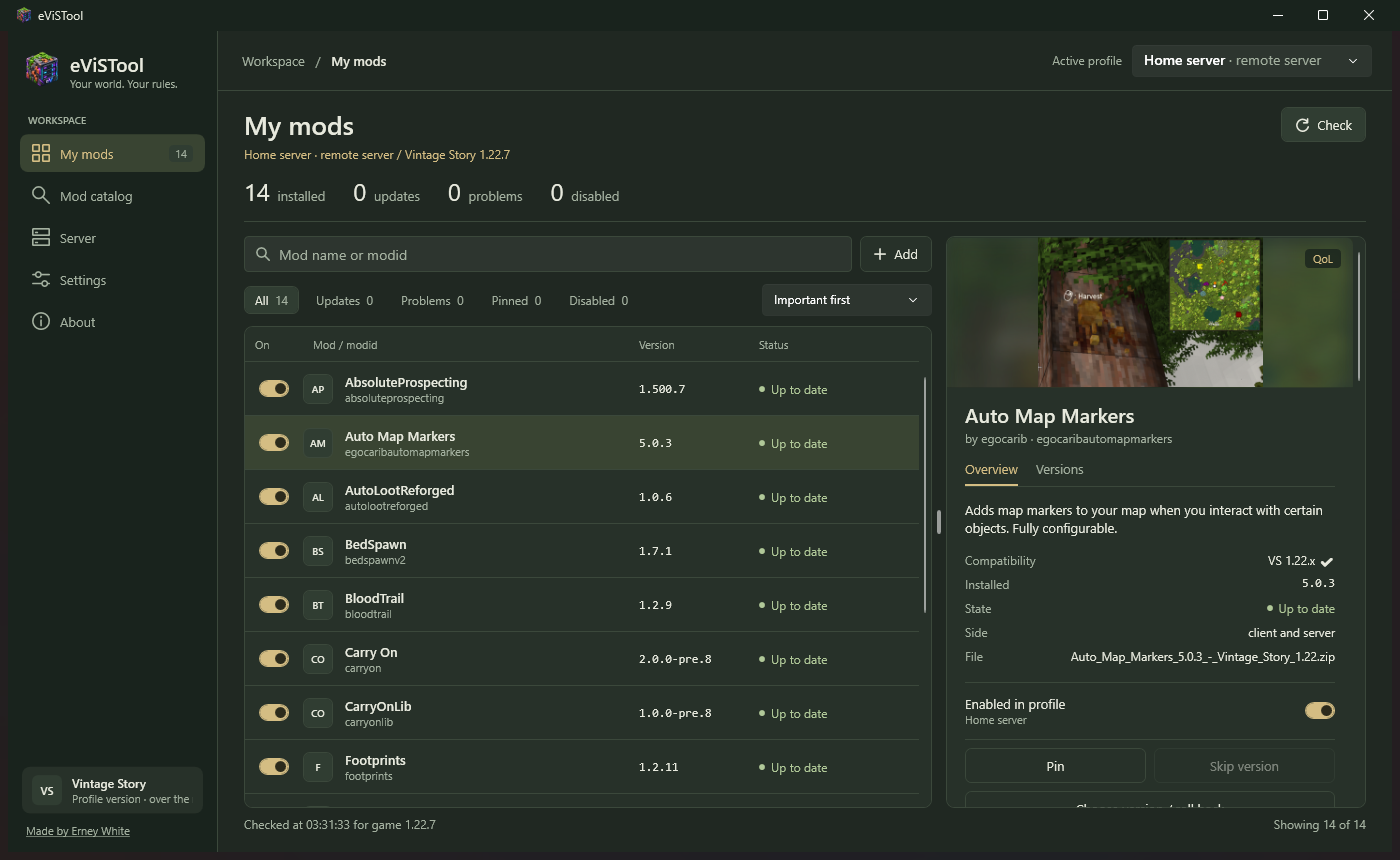
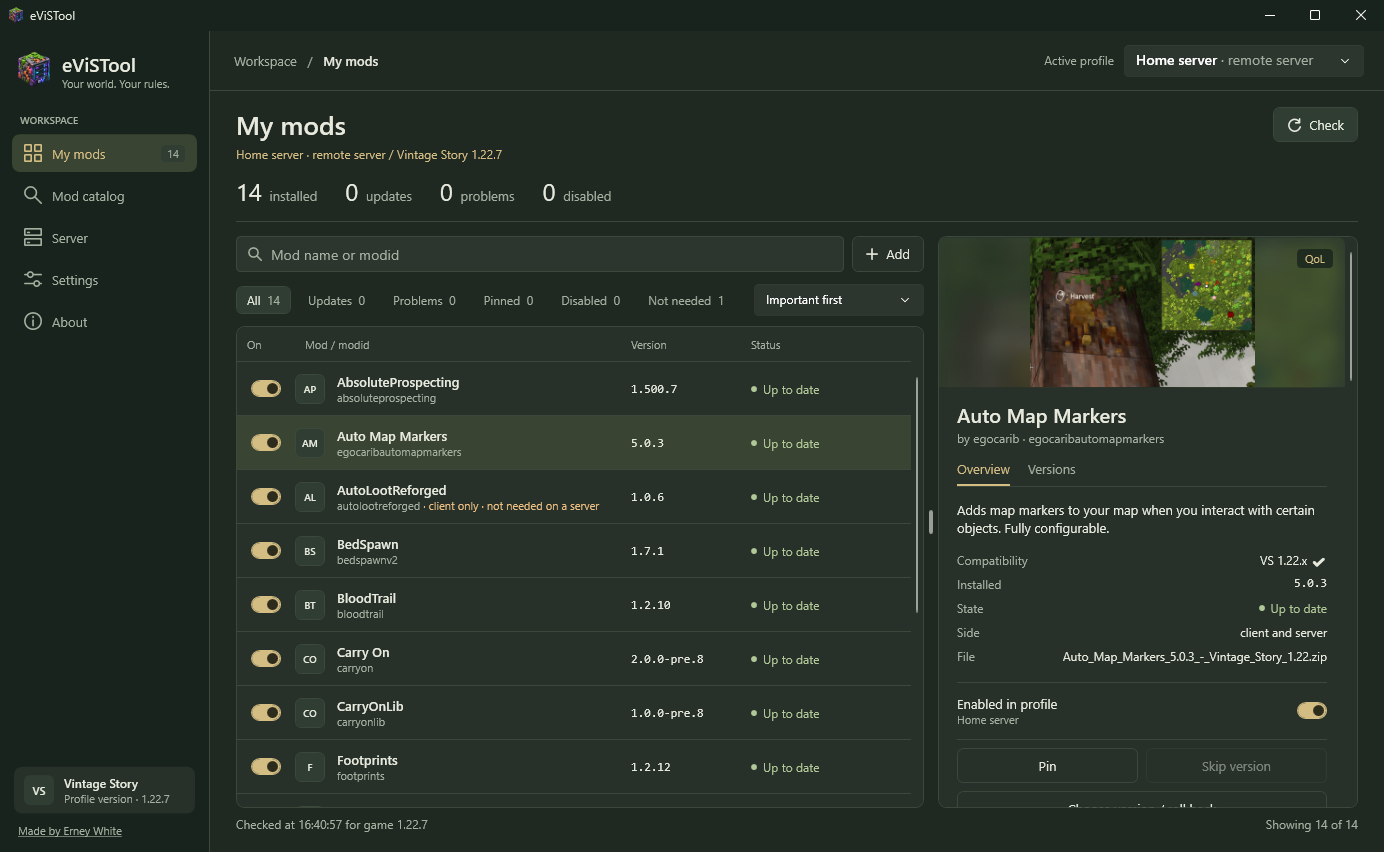
Скриншоты: пометки стороны мода, подсказки команд в консоли, фильтр «Not needed»; материалы для страницы на ModDB

diff --git a/docs/moddb/description.html b/docs/moddb/description.html
@@ -1,0 +1,57 @@
+<p><img src="https://raw.githubusercontent.com/erneywhite/eViSTool/main/docs/screenshots/mods.png" alt="My mods" width="100%" /></p>
+
+<p>I play Vintage Story with a lot of mods and run a small server for friends, and I got tired of checking every mod for updates by hand, copying zips around and connecting to the server just to restart it. So I made <strong>eViSTool</strong>. It's one window where you can keep your mods up to date, grab new ones from the ModDB and look after your dedicated server.</p>
+<p>It's free, open source and portable: unzip it anywhere and run it. Nothing gets installed, nothing runs in the background when you don't need it.</p>
+
+<h2>Your mods</h2>
+<p>Hit <strong>Check</strong> and you'll see which mods have updates. Update one or all of them in one go. If an update breaks something, roll back to the version you had before &mdash; eViSTool keeps the old files around for exactly that. You can pin a mod to its current version or skip one particular release you don't want.</p>
+<p>It also warns you about the usual headaches before they bite: a missing or outdated dependency (one button fixes it), a duplicate mod, a version made for another game branch. And if you keep a separate mod set for a server, it tells you which mods are client-only and don't belong there.</p>
+<p>Want to share your setup with a friend? Save it as a modpack and send them one file.</p>
+
+<h2>The whole ModDB inside the app</h2>
+<p>Search, filter by tag, side and game version, sort by what's trending. Every mod shows its screenshots, description and all releases, and installs with one click &mdash; dependencies included.</p>
+
+<h2>Profiles</h2>
+<p>Keep several setups side by side: your main game, a separate mod set for a particular server, a test profile. Each has its own mods, settings and worlds, and the <strong>Play</strong> button starts the game with the one you picked.</p>
+
+<p><img src="https://raw.githubusercontent.com/erneywhite/eViSTool/main/docs/screenshots/server.png" alt="Server console" width="100%" /></p>
+
+<h2>Your dedicated server</h2>
+<p>Start, stop and restart it, watch the live console and type commands with hints &mdash; start typing <code>/</code> and eViSTool suggests the server's commands, including the ones added by mods, and Tab completes them.</p>
+<p>The server keeps running when you close the window, and if it crashes it comes back up on its own.</p>
+<p>Backups run on a schedule, old ones get cleaned up, and restoring one is a single click &mdash; together with the data some mods keep next to the world, like XLeveling's skill progress. Scheduled restarts warn players in chat beforehand and take a fresh backup right before restarting, just in case.</p>
+<p>There's also a proper editor for <code>serverconfig.json</code>: world settings, roles and privileges with checkboxes instead of hand-editing JSON.</p>
+
+<h2>Your server on another PC</h2>
+<p>If the server lives on a different computer (a spare PC, a VM, a rented box), turn on remote access there and you'll get a connection code. Paste it into eViSTool on your own PC, and you can manage that server just like a local one: console, config, backups, schedule, and its mods. The connection is encrypted, and there's nothing to set up beyond the code.</p>
+
+<h2>Getting started</h2>
+<ol>
+<li>Download the zip below (or from <a href="https://github.com/erneywhite/eViSTool/releases">GitHub</a>), unzip it anywhere and run <code>eViSTool.exe</code>.</li>
+<li>It finds the game and your mods by itself.</li>
+</ol>
+<p>You'll need Windows 10 or 11 and the .NET 10 Desktop Runtime. The game uses the same runtime, so if you play Vintage Story you already have it.</p>
+<p>The app isn't code-signed yet, so Windows may show <em>"Windows protected your PC"</em> the first time. Click <em>More info &rarr; Run anyway</em>. The source code is open if you'd like to look inside.</p>
+<p>eViSTool updates itself from GitHub and doesn't collect anything about you. It only talks to GitHub (updates), the ModDB (catalog and downloads), and your own server if you turn on remote access.</p>
+
+<h2>Links</h2>
+<ul>
+<li>Full guide and troubleshooting: <a href="https://github.com/erneywhite/eViSTool#readme">README on GitHub</a></li>
+<li>Found a bug or have an idea? <a href="https://github.com/erneywhite/eViSTool/issues">Tell me on GitHub</a></li>
+<li>If it saves you time and you'd like to say thanks: <a href="https://ko-fi.com/erneywhite">Ko-fi</a></li>
+</ul>
+<p>Thanks to Tekunogosu for <a href="https://github.com/Tekunogosu/Rustique">Rustique</a> (MIT) &mdash; the ModDB and version handling is based on it &mdash; and to THumbert for <a href="https://mods.vintagestory.at/show/mod/17652">ViSST</a>, which inspired the server side. eViSTool is licensed under GPL-3.0.</p>
+
+<hr />
+
+<h2>По-русски</h2>
+<p>Я играю в Vintage Story с кучей модов и держу небольшой сервер для друзей. Надоело проверять обновления каждого мода руками, таскать zip-файлы туда-сюда и лезть на сервер ради перезапуска, поэтому я сделал <strong>eViSTool</strong>. Это одно окно, где можно обновлять моды, ставить новые с модбазы и присматривать за своим выделенным сервером.</p>
+<p>Программа бесплатная, с открытым кодом и портативная: распаковал в любую папку и запустил. Интерфейс полностью на русском.</p>
+<ul>
+<li><strong>Моды:</strong> одна кнопка проверяет обновления, можно обновить всё разом, а если что-то сломалось &mdash; откатиться на прежнюю версию. Программа заранее подскажет про нехватку зависимостей (чинится одной кнопкой), дубликаты и версии не для твоей игры. Своим набором можно поделиться модпаком.</li>
+<li><strong>Каталог модбазы</strong> прямо в программе: поиск, фильтры, скриншоты, установка в один клик.</li>
+<li><strong>Профили:</strong> несколько сборок игры рядом, у каждой свои моды, настройки и миры. Кнопка «Играть» запускает нужную.</li>
+<li><strong>Сервер:</strong> консоль с подсказками команд, копии мира по расписанию (вместе с данными модов, например прогрессом XLeveling), перезапуски с предупреждением игроков в чате, удобный редактор конфига.</li>
+<li><strong>Сервер на другом компьютере:</strong> включаешь там удалённый доступ, вставляешь код у себя и управляешь им как своим. Соединение зашифровано.</li>
+</ul>
+<p>Скачай zip, распакуй и запусти <code>eViSTool.exe</code>. Подробная инструкция &mdash; в <a href="https://github.com/erneywhite/eViSTool/blob/main/README.ru.md">README на русском</a>.</p>
